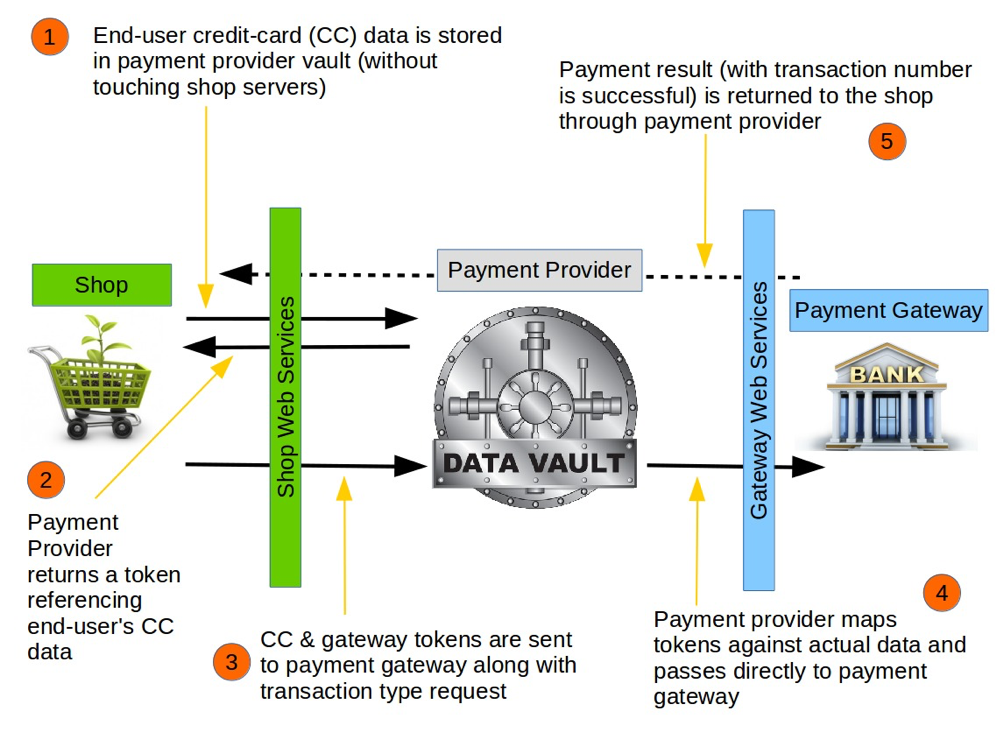
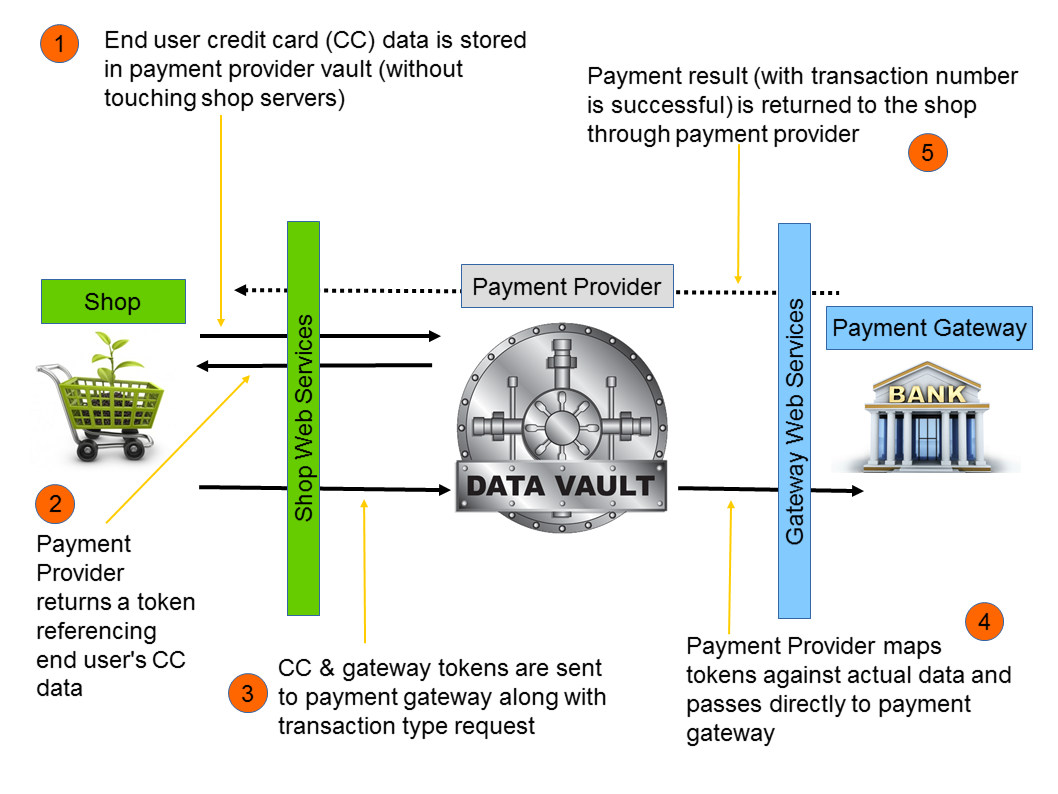
Amend pictures and add sub-headings
TW-337

Changed region(s): [[0.0309, 0.0, 0.988, 0.9635]]

diff --git a/_posts/2016/2016-08-02-next-gen-webservices.md b/_posts/2016/2016-08-02-next-gen-webservices.md
@@ -1,7 +1,7 @@
 ---
 layout: post
 title: "How to easily connect payment and shipping with online shops"
-date: "2016-08-02 11:11:11"
+date: "2016-08-02 07:11:11"
 image: blog-header/next-gen-webservices.jpg
 categories: tech-stories
 authors: ["Manel"]
@@ -9,6 +9,9 @@ authors: ["Manel"]
 
 In a [previous blog post](https://developer.epages.com/blog/2015/11/03/payment-integrations.html), Xavi explained the standard payment flow model that we use for a long time.
 In fact, flows between different payments or shippings have differences in architecture (SOAP or REST), as well as the requested data, and even the steps required.
+
+## Standard flow for payments and shipping
+
 But all of them have something in common:
 
 *The online shop has to contact the web services from the final payment or shipping company, and provide the required information to make the payment or shipping.*
@@ -22,6 +25,8 @@ We have many different merchants with different needs in many countries, and wan
 This can be a daunting task, because it means a lot of payments and shippings to integrate into ePages.
 Furthermore, every single payment and shipping developed solution that we integrate needs to be adapted to changes performed by their companies because of improvements and/or new features offered by their web services.
 
+## New approach available
+
 Now, a new approach to connecting with payments and shippings for online shops is available.
 That new model is being offered by a few startup companies, and the idea is as follows:
 
@@ -31,7 +36,7 @@ That new model is being offered by a few startup companies, and the idea is as f
 
 Even though the basic idea for both, payment and shipping, is the same, they use different approaches to better fit merchant needs.
 
-## Payments
+### Payments
 
 Three asynchronous processes are required:
 
@@ -48,7 +53,7 @@ This is the flow of step 3:
 
 As you can see, the Payment Card Industry (PCI) compliance is guaranteed by the payments provider, and no matter the final payment gateway used, payment flow remains the same.
 
-## Shipping
+### Shipping
 
 Processes and associated data flows for shipping are quite different than the ones for payments.
 
